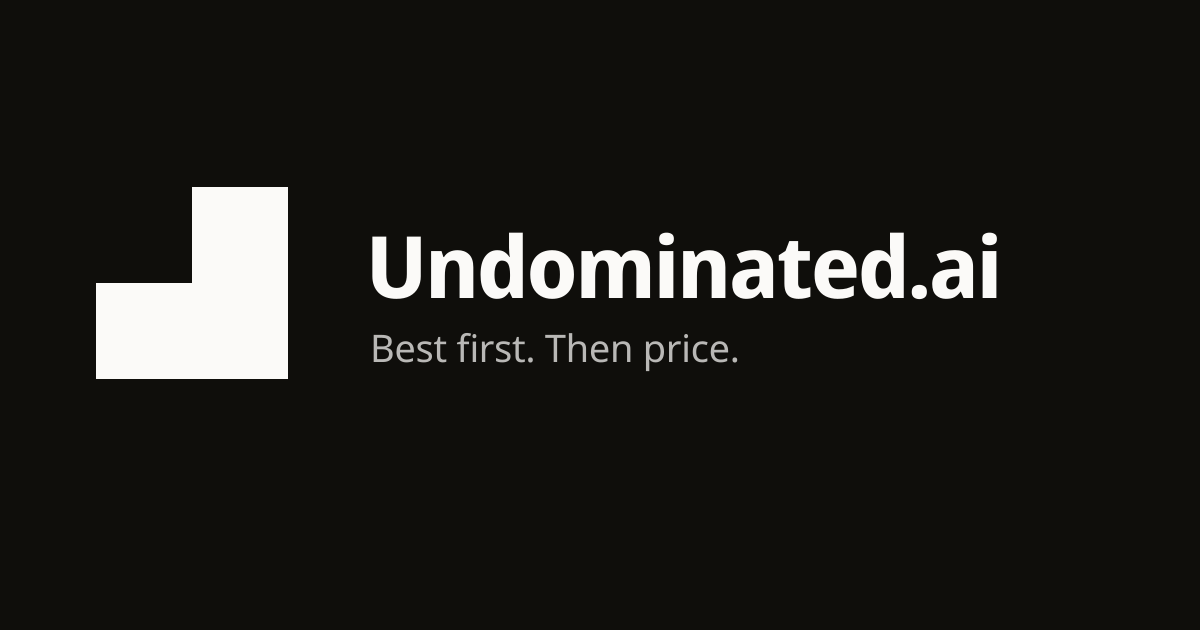
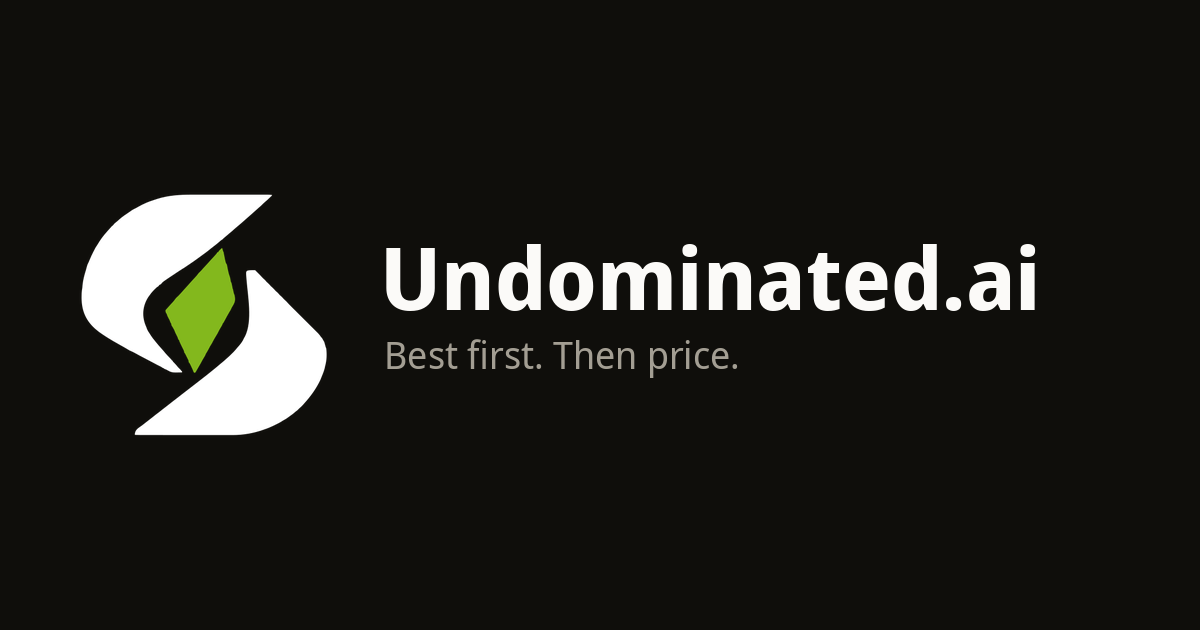
feat(brand): replace step-field mark with Dual Witness everywhere
Public GitHub presence now uses the Dual Witness identity: two
independent forms around a chartreuse evidence shard. Lockups, banner,
OG cards, vectors, and rasters all come from that family. No step-field
silhouette remains in this repository.

Changed region(s): [[0.3083, 0.3619, 0.8633, 0.6032], [0.0617, 0.2714, 0.2775, 0.6937]]

diff --git a/README.md b/README.md
@@ -1,8 +1,8 @@
 <p align="center">
   <a href="https://undominated.ai/">
     <picture>
-      <source media="(prefers-color-scheme: dark)" srcset="docs/brand/lockup-dark.svg">
-      <img src="docs/brand/lockup-light.svg" alt="Undominated.ai" height="56">
+      <source media="(prefers-color-scheme: dark)" srcset="docs/brand/lockup-dark.png">
+      <img src="docs/brand/lockup-light.png" alt="Undominated.ai" height="64">
     </picture>
   </a>
 </p>
@@ -21,7 +21,7 @@
 
 <p align="center">
   <a href="https://undominated.ai/">
-    <img src="docs/brand/banner.svg" alt="11 undominated · 97 of 108 rated models dominated · 410 in the catalogue · 63% unrated · 15,000× price spread" width="100%">
+    <img src="docs/brand/banner.png" alt="11 undominated · 97 of 108 rated models dominated · 410 in the catalogue · 63% unrated · 15,000× price spread" width="100%">
   </a>
 </p>
 
@@ -195,8 +195,8 @@ Vendor prices are facts the vendor published. Every live row is supposed to carr
 <p align="center">
   <a href="https://undominated.ai/">
     <picture>
-      <source media="(prefers-color-scheme: dark)" srcset="docs/brand/mark-dark.svg">
-      <img src="docs/brand/mark-light.svg" alt="" height="48">
+      <source media="(prefers-color-scheme: dark)" srcset="docs/brand/raster/mark-dark-on-dark-128.png">
+      <img src="docs/brand/raster/mark-light-on-paper-128.png" alt="Undominated.ai Dual Witness mark" height="56">
     </picture>
   </a>
   <br>

diff --git a/docs/brand/README.md b/docs/brand/README.md
@@ -1,0 +1,16 @@
+# Dual Witness mark
+
+Production identity for [Undominated.ai](https://undominated.ai/). Two independent witnesses establish the same chartreuse evidence shard. Chartreuse is frontier proof, never decoration.
+
+| File | Use |
+| --- | --- |
+| `lockup-light.png` / `lockup-dark.png` | Horizontal wordmark for GitHub and light/dark UI |
+| `lockup-stacked-light.png` / `lockup-stacked-dark.png` | Square-ish stacked lockup |
+| `banner.png` | README hero |
+| `og-light.png` / `og-dark.png` | 1200×630 social cards |
+| `mark.svg` | Theme-aware vector (graphite on light, paper on dark) |
+| `mark-light.svg` / `mark-dark.svg` | Transparent vectors |
+| `vector/` | Full vector family including on-dark / on-paper plates and reveal variants |
+| `raster/` | 64–512px transparent and backed rasters |
+
+Do not recolour the shard. Do not use it as a page boundary on paper. The live product is the website, not this folder.
